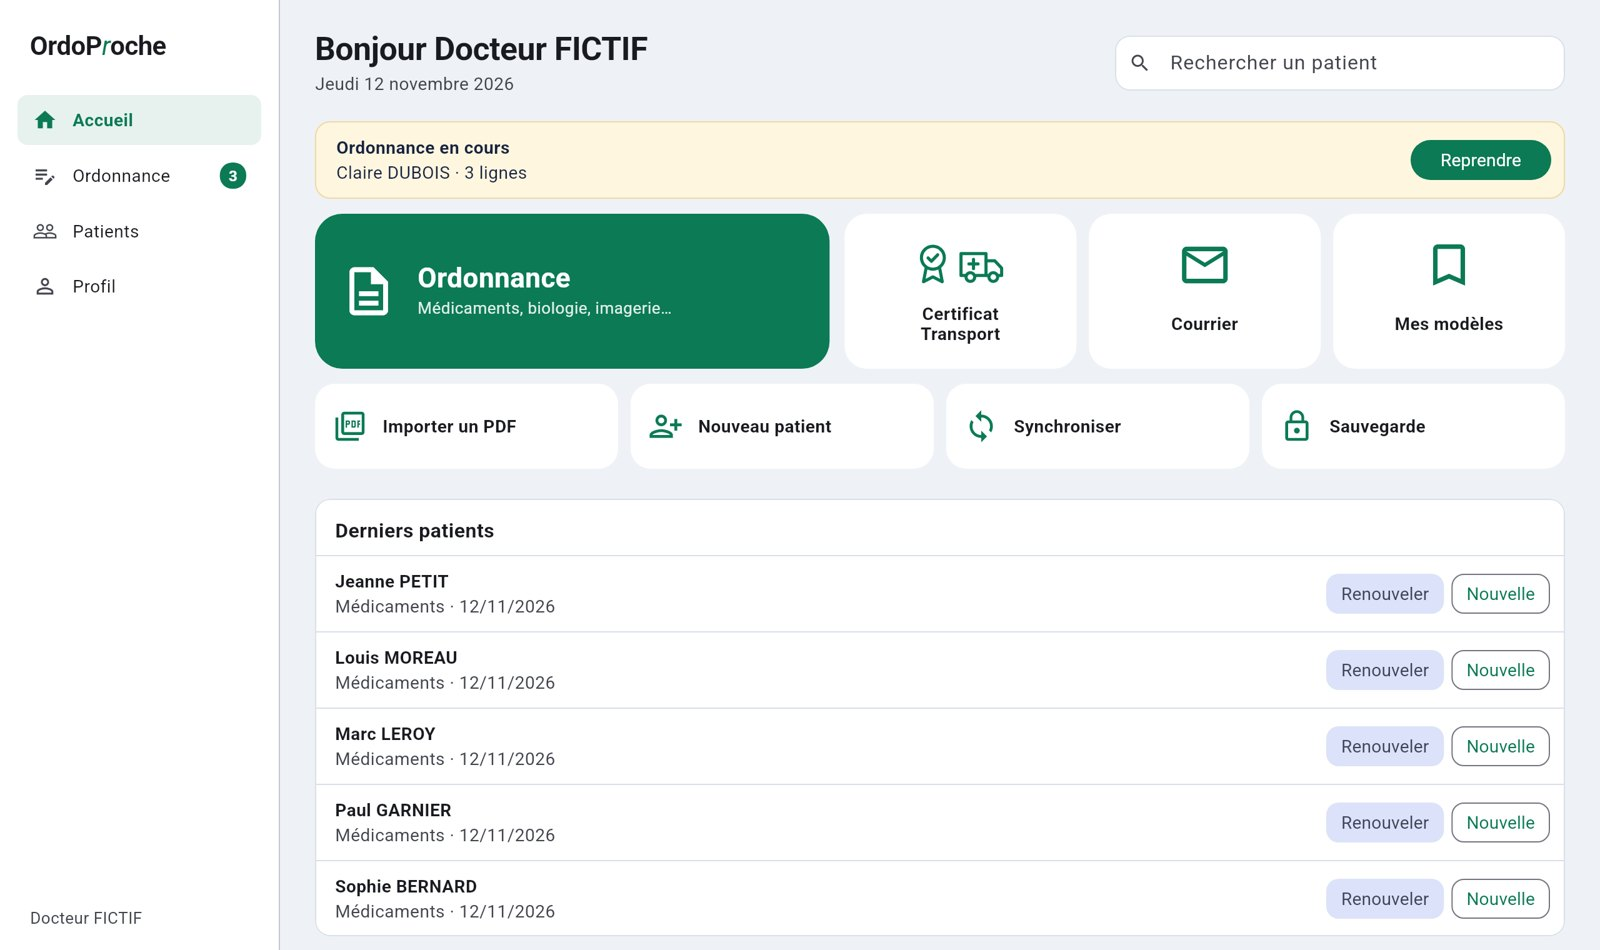
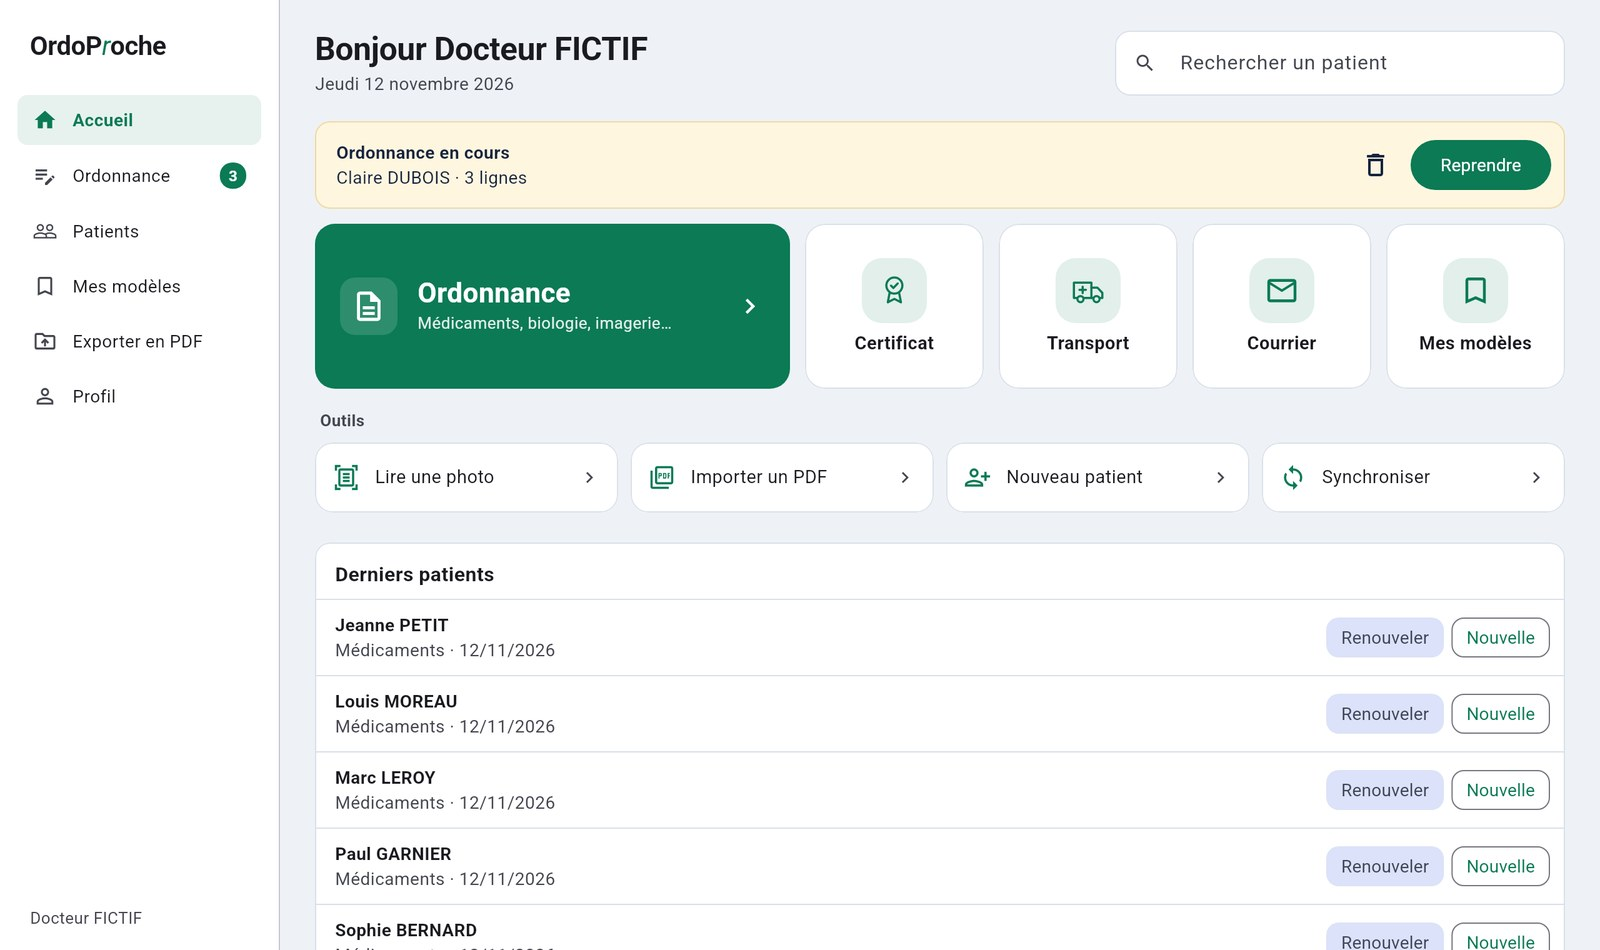
Accueil : captures à jour et visuel du téléphone
* Page de politique de confidentialité

Claude-Session: https://claude.ai/code/session_01BWnDdFXbrv8XHUT2XgpEbv

* Lien vers la politique de confidentialité en pied de page

Claude-Session: https://claude.ai/code/session_01BWnDdFXbrv8XHUT2XgpEbv

* Domaine ordoproche.fr pour le site

Claude-Session: https://claude.ai/code/session_01BWnDdFXbrv8XHUT2XgpEbv

* Accueil : captures à jour et visuel du téléphone à côté de l'ordinateur

Claude-Session: https://claude.ai/code/session_01BWnDdFXbrv8XHUT2XgpEbv

---------

diff --git a/index.html b/index.html
@@ -57,6 +57,11 @@
   .fiche { margin-top: 12px; font-size: 14.5px; color: var(--gris); }
   .capture { border: 1px solid var(--encre); border-radius: 6px; overflow: hidden; background: #fff; }
 
+  /* Visuel du téléphone posé sur celui de l'ordinateur */
+  .visuels { position: relative; padding: 0 0 54px 0; }
+  .visuels .capture.pc { width: 88%; }
+  .visuels .mobile { position: absolute; right: 0; bottom: 0; width: 25%; border: 1px solid var(--encre); border-radius: 14px; overflow: hidden; background: #fff; box-shadow: -10px 12px 0 var(--papier); }
+
   /* Rubriques */
   .rubrique { border-top: 1px solid var(--encre); padding: 22px 0 60px; }
   .surtitre { font: 700 13px/1 var(--sans); letter-spacing: 1.6px; text-transform: uppercase; color: var(--vert); }
@@ -115,6 +120,7 @@
     .chapeau { font-size: 17.5px; }
     .bouton { display: flex; justify-content: center; font-size: 17.5px; padding: 15px 12px; }
     .capture { width: 58%; margin: 0 auto; border-radius: 14px; }
+    .visuels { padding: 0; }
     .rubrique { padding: 18px 0 44px; }
     h2 { font-size: 27px; }
     .etapes { grid-template-columns: 1fr; gap: 30px; margin-top: 24px; }
@@ -151,8 +157,9 @@
       </a>
       <p class="fiche"><span class="tel">Fichier de <span id="taille-apk">145</span> Mo.</span><span class="pc">Fichier de <span id="taille-exe">17</span> Mo.</span> <span id="version">Version 2026.11.23 du 23 novembre 2026</span>. Gratuit.</p>
     </div>
-    <div>
+    <div class="visuels">
       <img class="capture pc" src="capture-ordinateur.jpg" width="1600" height="950" alt="L'écran d'accueil d'OrdoProche sur ordinateur">
+      <img class="mobile pc" src="capture-telephone.jpg" width="768" height="1664" alt="L'écran d'accueil d'OrdoProche sur téléphone">
       <img class="capture tel" src="capture-telephone.jpg" width="768" height="1664" alt="L'écran d'accueil d'OrdoProche sur téléphone">
     </div>
   </section>
